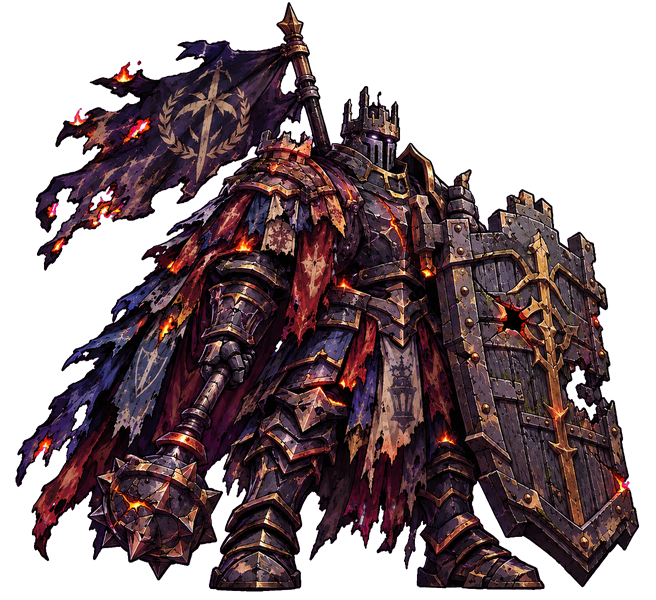
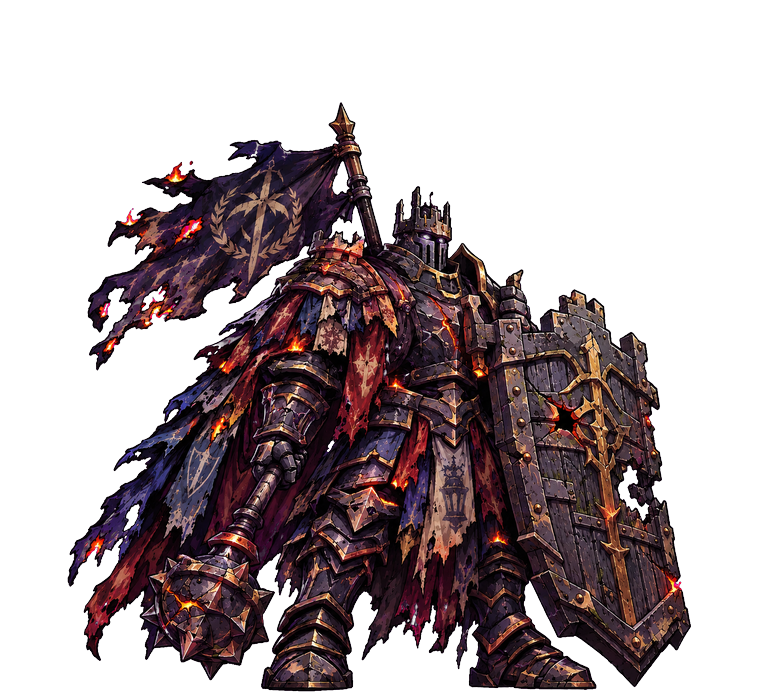
v0.6.5.0520: 6스테이지 보스 동작 그림 9컷 추가, 보스 캔버스 통일(미공개)
Claude-Session: https://claude.ai/code/session_01AwLthSKStJ6TZafJZN1U3z

diff --git a/index.html b/index.html
@@ -1362,7 +1362,7 @@ body.hcrun #bRev,body.hcrun #bRevBig{display:none!important}
     <div class="spVer" id="spVer"></div>
   </section>
   <section class="screen" id="sTitle">
-    <div class="ver" id="verT">v0.6.5.0519</div>
+    <div class="ver" id="verT">v0.6.5.0520</div>
     <button class="gearT" id="bSet" aria-label="메뉴"><svg viewBox="0 0 24 24" width="24" height="24" fill="none" stroke="currentColor" stroke-width="2.2" stroke-linecap="round" aria-hidden="true"><path d="M4 7h16M4 12h16M4 17h16"/></svg><i class="mnew" id="menuB" hidden>NEW</i></button>
     <button class="gearT" id="bFull" aria-label="전체화면" hidden></button>
     <div class="eyebrow">DARK GUARDIAN</div>

diff --git a/CLAUDE.md b/CLAUDE.md
@@ -1,5 +1,5 @@
 # 개발 규칙
 - 게임 밸런스/수치(확률, 데미지, 비용, 쿨타임, 드랍 등)를 바꿀 때마다 `patchnotes.txt` 맨 위에 해당 버전 항목을 추가하고 바뀐 수치를 간략히 적는다. 표기는 "변경: 120% → 90%", "상향: 3 → 5", "하향: …", "수정: …", "추가: …"처럼 쓴다("이전 → 이후:" 문구는 쓰지 않는다. 필요하면 "이전: A → 이후: B" 형태는 가능). (인게임 메뉴·설정·시작화면 버전 글자에서 이 파일을 보여줌)
-- 버전은 `0.6.5.NNNN` (빌드 번호 = 커밋 수 − 70, 0.4.0.0124 다음부터 0.4.1.0125 → 0.4.2.0128 → 0.4.2.0129 → 0.4.2.0130 → 0.4.2.0131 → 0.4.2.0132 → 0.4.2.0133 → 0.4.2.0134 → 0.4.2.0135 → 0.4.2.0136 → 0.4.2.0137 → 0.4.2.0138 → 0.4.2.0139 → 0.4.2.0140 → 0.4.2.0141 → 0.4.2.0142 → 0.4.2.0143 → 0.4.2.0144 → 0.4.2.0145 → 0.4.2.0146 → 0.4.2.0147 → 0.4.2.0148 → 0.4.2.0149 → 0.4.3.0150 → 0.4.3.0151 → 0.4.3.0152 → 0.4.3.0153 → 0.4.3.0154 → 0.4.3.0155 → 0.4.3.0156 → 0.4.3.0157 → 0.4.3.0158 → 0.4.3.0159 → 0.4.3.0160 → 0.4.3.0161 → 0.4.3.0162 → 0.4.3.0163 → 0.4.3.0164 → 0.4.3.0165 → 0.4.3.0166 → 0.4.3.0167 → 0.4.4.0168 → 0.4.4.0169 → 0.4.4.0170 → 0.4.4.0171 → 0.4.4.0172 → 0.4.4.0173 → 0.4.5.0174 → 0.4.5.0175 → 0.4.5.0176 → 0.4.5.0177 → 0.4.5.0178 → 0.4.5.0179 → 0.4.5.0180 → 0.4.6.0181 → 0.4.6.0182 → 0.4.6.0183 → 0.4.6.0184 → 0.4.6.0185 → 0.4.6.0186 → 0.4.6.0187 → 0.4.6.0188 → 0.4.6.0189 → 0.4.6.0190 → 0.4.6.0191 → 0.4.6.0192 → 0.4.6.0193 → 0.4.6.0194 → 0.4.6.0195 → 0.4.6.0196 → 0.4.7.0197 → 0.4.7.0198 → 0.4.7.0199 → 0.4.7.0200 → 0.4.7.0201 → 0.4.7.0202 → 0.4.7.0203 → 0.4.7.0204 → 0.4.7.0205 → 0.4.7.0206 → 0.4.7.0207 → 0.4.7.0208 → 0.5.0.0209 → 0.5.0.0210 → 0.5.0.0211 → 0.5.0.0212 → 0.5.0.0213 → 0.5.0.0214 → 0.5.0.0215 → 0.5.0.0216 → 0.5.0.0217 → 0.5.0.0218 → 0.5.0.0219 → 0.5.0.0220 → 0.5.0.0221 → 0.5.0.0222 → 0.5.0.0223 → 0.5.0.0224 → 0.5.0.0225 → 0.5.0.0226 → 0.5.0.0227 → 0.5.0.0228 → 0.5.0.0229 → 0.5.0.0230 → 0.5.0.0231 → 0.5.0.0232 → 0.5.0.0233 → 0.5.0.0234 → 0.5.0.0235 → 0.5.0.0236 → 0.5.0.0237 → 0.5.0.0238 → 0.5.0.0239 → 0.5.0.0240 → 0.5.0.0241 → 0.6.0.0241 → 0.6.0.0242 → 0.6.0.0243 → 0.6.0.0244 → 0.6.0.0245 → 0.6.0.0246 → 0.6.0.0247 → 0.6.0.0248 → 0.6.0.0249 → 0.6.0.0250 → 0.6.0.0251 → 0.6.0.0252 → 0.6.0.0253 → 0.6.0.0254 → 0.6.0.0255 → 0.6.0.0256 → 0.6.0.0257 → 0.6.0.0258 → 0.6.0.0259 → 0.6.0.0260 → 0.6.0.0261 → 0.6.0.0262 → 0.6.0.0263 → 0.6.0.0264 → 0.6.0.0265 → 0.6.0.0266 → 0.6.0.0267 → 0.6.0.0268 → 0.6.0.0269 → 0.6.0.0270 → 0.6.0.0271 → 0.6.0.0272 → 0.6.0.0273 → 0.6.0.0274 → 0.6.0.0275 → 0.6.0.0276 → 0.6.0.0277 → 0.6.0.0278 → 0.6.0.0279 → 0.6.0.0280 → 0.6.0.0281 → 0.6.0.0282 → 0.6.0.0283 → 0.6.0.0284 → 0.6.0.0285 → 0.6.0.0286 → 0.6.0.0287 → 0.6.0.0288 → 0.6.0.0289 → 0.6.0.0290 → 0.6.0.0291 → 0.6.0.0292 → 0.6.0.0293 → 0.6.0.0294 → 0.6.0.0295 → 0.6.0.0296 → 0.6.0.0297 → 0.6.0.0298 → 0.6.0.0299 → 0.6.0.0300 → 0.6.0.0301 → 0.6.0.0302 → 0.6.0.0303 → 0.6.0.0304 → 0.6.0.0305 → 0.6.0.0306 → 0.6.0.0307 → 0.6.0.0308 → 0.6.0.0309 → 0.6.0.0310 → 0.6.0.0311 → 0.6.0.0312 → 0.6.0.0313 → 0.6.0.0314 → 0.6.0.0315 → 0.6.0.0316 → 0.6.0.0317 → 0.6.0.0318 → 0.6.0.0319 → 0.6.0.0320 → 0.6.0.0321 → 0.6.0.0322 → 0.6.0.0323 → 0.6.0.0324 → 0.6.0.0325 → 0.6.0.0326 → 0.6.0.0327 → 0.6.0.0328 → 0.6.0.0329 → 0.6.0.0330 → 0.6.0.0331 → 0.6.0.0332 → 0.6.0.0333 → 0.6.0.0334 → 0.6.0.0335 → 0.6.0.0336 → 0.6.0.0337 → 0.6.0.0338 → 0.6.0.0339 → 0.6.0.0340 → 0.6.1.0341 → 0.6.1.0342 → 0.6.1.0343 → 0.6.1.0344 → 0.6.1.0345 → 0.6.1.0346 → 0.6.1.0347 → 0.6.1.0348 → 0.6.1.0349 → 0.6.1.0350 → 0.6.1.0351 → 0.6.1.0352 → 0.6.1.0353 → 0.6.1.0354 → 0.6.1.0355 → 0.6.1.0356 → 0.6.1.0357 → 0.6.1.0358 → 0.6.1.0359 → 0.6.1.0360 → 0.6.1.0361 → 0.6.1.0362 → 0.6.1.0363 → 0.6.1.0364 → 0.6.1.0365 → 0.6.1.0366 → 0.6.1.0367 → 0.6.1.0368 → 0.6.1.0369 → 0.6.1.0370 → 0.6.1.0371 → 0.6.1.0372 → 0.6.1.0373 → 0.6.1.0374 → 0.6.1.0375 → 0.6.1.0376 → 0.6.1.0377 → 0.6.1.0378 → 0.6.1.0379 → 0.6.1.0380 → 0.6.1.0381 → 0.6.1.0382 → 0.6.1.0383 → 0.6.1.0384 → 0.6.1.0385 → 0.6.1.0386 → 0.6.1.0387 → 0.6.1.0388 → 0.6.1.0389 → 0.6.2.0390 → 0.6.2.0391 → 0.6.2.0392 → 0.6.2.0393 → 0.6.2.0394 → 0.6.2.0395 → 0.6.2.0396 → 0.6.2.0397 → 0.6.2.0398 → 0.6.2.0399 → 0.6.2.0400 → 0.6.2.0401 → 0.6.2.0402 → 0.6.2.0403 → 0.6.2.0404 → 0.6.2.0405 → 0.6.2.0406 → 0.6.2.0407 → 0.6.2.0408 → 0.6.2.0409 → 0.6.2.0410 → 0.6.2.0411 → 0.6.2.0412 → 0.6.2.0413 → 0.6.2.0414 → 0.6.2.0415 → 0.6.2.0416 → 0.6.2.0417 → 0.6.2.0418 → 0.6.3.0419 → 0.6.3.0420 → 0.6.3.0421 → 0.6.3.0422 → 0.6.3.0423 → 0.6.3.0424 → 0.6.3.0425 → 0.6.3.0426 → 0.6.3.0427 → 0.6.3.0428 → 0.6.3.0429 → 0.6.3.0430 → 0.6.3.0431 → 0.6.3.0432 → 0.6.3.0433 → 0.6.3.0434 → 0.6.3.0435 → 0.6.3.0436 → 0.6.3.0437 → 0.6.3.0438 → 0.6.3.0439 → 0.6.3.0440 → 0.6.3.0441 → 0.6.3.0442 → 0.6.3.0443 → 0.6.3.0444 → 0.6.3.0445 → 0.6.3.0446 → 0.6.3.0447 → 0.6.3.0448 → 0.6.3.0449 → 0.6.3.0450 → 0.6.3.0451 → 0.6.3.0452 → 0.6.3.0453 → 0.6.3.0454 → 0.6.3.0455 → 0.6.3.0456 → 0.6.3.0457 → 0.6.3.0458 → 0.6.3.0459 → 0.6.4.0460 → 0.6.4.0461 → 0.6.4.0462 → 0.6.4.0463 → 0.6.4.0464 → 0.6.4.0465 → 0.6.4.0466 → 0.6.4.0467 → 0.6.4.0468 → 0.6.4.0469 → 0.6.4.0470 → 0.6.4.0471 → 0.6.4.0472 → 0.6.4.0473 → 0.6.4.0474 → 0.6.4.0475 → 0.6.4.0476 → 0.6.4.0477 → 0.6.4.0478 → 0.6.4.0479 → 0.6.4.0480 → 0.6.4.0481 → 0.6.4.0482 → 0.6.4.0483 → 0.6.4.0484 → 0.6.4.0485 → 0.6.4.0486 → 0.6.4.0487 → 0.6.4.0488 → 0.6.4.0489 → 0.6.4.0490 → 0.6.4.0491 → 0.6.4.0492 → 0.6.4.0493 → 0.6.4.0494 → 0.6.4.0495 → 0.6.4.0496 → 0.6.4.0497 → 0.6.4.0498 → 0.6.4.0499 → 0.6.4.0500 → 0.6.4.0501 → 0.6.4.0502 → 0.6.4.0503 → 0.6.4.0504 → 0.6.4.0505 → 0.6.5.0506 → 0.6.5.0507 → 0.6.5.0508 → 0.6.5.0509 → 0.6.5.0510 → 0.6.5.0511 → 0.6.5.0512 → 0.6.5.0513 → 0.6.5.0514 → 0.6.5.0515 → 0.6.5.0516 → 0.6.5.0517 → 0.6.5.0518 → 0.6.5.0519로 이어서 증가). 커밋 때 patchnotes.txt의 버전 번호도 맞춘다.
+- 버전은 `0.6.5.NNNN` (빌드 번호 = 커밋 수 − 70, 0.4.0.0124 다음부터 0.4.1.0125 → 0.4.2.0128 → 0.4.2.0129 → 0.4.2.0130 → 0.4.2.0131 → 0.4.2.0132 → 0.4.2.0133 → 0.4.2.0134 → 0.4.2.0135 → 0.4.2.0136 → 0.4.2.0137 → 0.4.2.0138 → 0.4.2.0139 → 0.4.2.0140 → 0.4.2.0141 → 0.4.2.0142 → 0.4.2.0143 → 0.4.2.0144 → 0.4.2.0145 → 0.4.2.0146 → 0.4.2.0147 → 0.4.2.0148 → 0.4.2.0149 → 0.4.3.0150 → 0.4.3.0151 → 0.4.3.0152 → 0.4.3.0153 → 0.4.3.0154 → 0.4.3.0155 → 0.4.3.0156 → 0.4.3.0157 → 0.4.3.0158 → 0.4.3.0159 → 0.4.3.0160 → 0.4.3.0161 → 0.4.3.0162 → 0.4.3.0163 → 0.4.3.0164 → 0.4.3.0165 → 0.4.3.0166 → 0.4.3.0167 → 0.4.4.0168 → 0.4.4.0169 → 0.4.4.0170 → 0.4.4.0171 → 0.4.4.0172 → 0.4.4.0173 → 0.4.5.0174 → 0.4.5.0175 → 0.4.5.0176 → 0.4.5.0177 → 0.4.5.0178 → 0.4.5.0179 → 0.4.5.0180 → 0.4.6.0181 → 0.4.6.0182 → 0.4.6.0183 → 0.4.6.0184 → 0.4.6.0185 → 0.4.6.0186 → 0.4.6.0187 → 0.4.6.0188 → 0.4.6.0189 → 0.4.6.0190 → 0.4.6.0191 → 0.4.6.0192 → 0.4.6.0193 → 0.4.6.0194 → 0.4.6.0195 → 0.4.6.0196 → 0.4.7.0197 → 0.4.7.0198 → 0.4.7.0199 → 0.4.7.0200 → 0.4.7.0201 → 0.4.7.0202 → 0.4.7.0203 → 0.4.7.0204 → 0.4.7.0205 → 0.4.7.0206 → 0.4.7.0207 → 0.4.7.0208 → 0.5.0.0209 → 0.5.0.0210 → 0.5.0.0211 → 0.5.0.0212 → 0.5.0.0213 → 0.5.0.0214 → 0.5.0.0215 → 0.5.0.0216 → 0.5.0.0217 → 0.5.0.0218 → 0.5.0.0219 → 0.5.0.0220 → 0.5.0.0221 → 0.5.0.0222 → 0.5.0.0223 → 0.5.0.0224 → 0.5.0.0225 → 0.5.0.0226 → 0.5.0.0227 → 0.5.0.0228 → 0.5.0.0229 → 0.5.0.0230 → 0.5.0.0231 → 0.5.0.0232 → 0.5.0.0233 → 0.5.0.0234 → 0.5.0.0235 → 0.5.0.0236 → 0.5.0.0237 → 0.5.0.0238 → 0.5.0.0239 → 0.5.0.0240 → 0.5.0.0241 → 0.6.0.0241 → 0.6.0.0242 → 0.6.0.0243 → 0.6.0.0244 → 0.6.0.0245 → 0.6.0.0246 → 0.6.0.0247 → 0.6.0.0248 → 0.6.0.0249 → 0.6.0.0250 → 0.6.0.0251 → 0.6.0.0252 → 0.6.0.0253 → 0.6.0.0254 → 0.6.0.0255 → 0.6.0.0256 → 0.6.0.0257 → 0.6.0.0258 → 0.6.0.0259 → 0.6.0.0260 → 0.6.0.0261 → 0.6.0.0262 → 0.6.0.0263 → 0.6.0.0264 → 0.6.0.0265 → 0.6.0.0266 → 0.6.0.0267 → 0.6.0.0268 → 0.6.0.0269 → 0.6.0.0270 → 0.6.0.0271 → 0.6.0.0272 → 0.6.0.0273 → 0.6.0.0274 → 0.6.0.0275 → 0.6.0.0276 → 0.6.0.0277 → 0.6.0.0278 → 0.6.0.0279 → 0.6.0.0280 → 0.6.0.0281 → 0.6.0.0282 → 0.6.0.0283 → 0.6.0.0284 → 0.6.0.0285 → 0.6.0.0286 → 0.6.0.0287 → 0.6.0.0288 → 0.6.0.0289 → 0.6.0.0290 → 0.6.0.0291 → 0.6.0.0292 → 0.6.0.0293 → 0.6.0.0294 → 0.6.0.0295 → 0.6.0.0296 → 0.6.0.0297 → 0.6.0.0298 → 0.6.0.0299 → 0.6.0.0300 → 0.6.0.0301 → 0.6.0.0302 → 0.6.0.0303 → 0.6.0.0304 → 0.6.0.0305 → 0.6.0.0306 → 0.6.0.0307 → 0.6.0.0308 → 0.6.0.0309 → 0.6.0.0310 → 0.6.0.0311 → 0.6.0.0312 → 0.6.0.0313 → 0.6.0.0314 → 0.6.0.0315 → 0.6.0.0316 → 0.6.0.0317 → 0.6.0.0318 → 0.6.0.0319 → 0.6.0.0320 → 0.6.0.0321 → 0.6.0.0322 → 0.6.0.0323 → 0.6.0.0324 → 0.6.0.0325 → 0.6.0.0326 → 0.6.0.0327 → 0.6.0.0328 → 0.6.0.0329 → 0.6.0.0330 → 0.6.0.0331 → 0.6.0.0332 → 0.6.0.0333 → 0.6.0.0334 → 0.6.0.0335 → 0.6.0.0336 → 0.6.0.0337 → 0.6.0.0338 → 0.6.0.0339 → 0.6.0.0340 → 0.6.1.0341 → 0.6.1.0342 → 0.6.1.0343 → 0.6.1.0344 → 0.6.1.0345 → 0.6.1.0346 → 0.6.1.0347 → 0.6.1.0348 → 0.6.1.0349 → 0.6.1.0350 → 0.6.1.0351 → 0.6.1.0352 → 0.6.1.0353 → 0.6.1.0354 → 0.6.1.0355 → 0.6.1.0356 → 0.6.1.0357 → 0.6.1.0358 → 0.6.1.0359 → 0.6.1.0360 → 0.6.1.0361 → 0.6.1.0362 → 0.6.1.0363 → 0.6.1.0364 → 0.6.1.0365 → 0.6.1.0366 → 0.6.1.0367 → 0.6.1.0368 → 0.6.1.0369 → 0.6.1.0370 → 0.6.1.0371 → 0.6.1.0372 → 0.6.1.0373 → 0.6.1.0374 → 0.6.1.0375 → 0.6.1.0376 → 0.6.1.0377 → 0.6.1.0378 → 0.6.1.0379 → 0.6.1.0380 → 0.6.1.0381 → 0.6.1.0382 → 0.6.1.0383 → 0.6.1.0384 → 0.6.1.0385 → 0.6.1.0386 → 0.6.1.0387 → 0.6.1.0388 → 0.6.1.0389 → 0.6.2.0390 → 0.6.2.0391 → 0.6.2.0392 → 0.6.2.0393 → 0.6.2.0394 → 0.6.2.0395 → 0.6.2.0396 → 0.6.2.0397 → 0.6.2.0398 → 0.6.2.0399 → 0.6.2.0400 → 0.6.2.0401 → 0.6.2.0402 → 0.6.2.0403 → 0.6.2.0404 → 0.6.2.0405 → 0.6.2.0406 → 0.6.2.0407 → 0.6.2.0408 → 0.6.2.0409 → 0.6.2.0410 → 0.6.2.0411 → 0.6.2.0412 → 0.6.2.0413 → 0.6.2.0414 → 0.6.2.0415 → 0.6.2.0416 → 0.6.2.0417 → 0.6.2.0418 → 0.6.3.0419 → 0.6.3.0420 → 0.6.3.0421 → 0.6.3.0422 → 0.6.3.0423 → 0.6.3.0424 → 0.6.3.0425 → 0.6.3.0426 → 0.6.3.0427 → 0.6.3.0428 → 0.6.3.0429 → 0.6.3.0430 → 0.6.3.0431 → 0.6.3.0432 → 0.6.3.0433 → 0.6.3.0434 → 0.6.3.0435 → 0.6.3.0436 → 0.6.3.0437 → 0.6.3.0438 → 0.6.3.0439 → 0.6.3.0440 → 0.6.3.0441 → 0.6.3.0442 → 0.6.3.0443 → 0.6.3.0444 → 0.6.3.0445 → 0.6.3.0446 → 0.6.3.0447 → 0.6.3.0448 → 0.6.3.0449 → 0.6.3.0450 → 0.6.3.0451 → 0.6.3.0452 → 0.6.3.0453 → 0.6.3.0454 → 0.6.3.0455 → 0.6.3.0456 → 0.6.3.0457 → 0.6.3.0458 → 0.6.3.0459 → 0.6.4.0460 → 0.6.4.0461 → 0.6.4.0462 → 0.6.4.0463 → 0.6.4.0464 → 0.6.4.0465 → 0.6.4.0466 → 0.6.4.0467 → 0.6.4.0468 → 0.6.4.0469 → 0.6.4.0470 → 0.6.4.0471 → 0.6.4.0472 → 0.6.4.0473 → 0.6.4.0474 → 0.6.4.0475 → 0.6.4.0476 → 0.6.4.0477 → 0.6.4.0478 → 0.6.4.0479 → 0.6.4.0480 → 0.6.4.0481 → 0.6.4.0482 → 0.6.4.0483 → 0.6.4.0484 → 0.6.4.0485 → 0.6.4.0486 → 0.6.4.0487 → 0.6.4.0488 → 0.6.4.0489 → 0.6.4.0490 → 0.6.4.0491 → 0.6.4.0492 → 0.6.4.0493 → 0.6.4.0494 → 0.6.4.0495 → 0.6.4.0496 → 0.6.4.0497 → 0.6.4.0498 → 0.6.4.0499 → 0.6.4.0500 → 0.6.4.0501 → 0.6.4.0502 → 0.6.4.0503 → 0.6.4.0504 → 0.6.4.0505 → 0.6.5.0506 → 0.6.5.0507 → 0.6.5.0508 → 0.6.5.0509 → 0.6.5.0510 → 0.6.5.0511 → 0.6.5.0512 → 0.6.5.0513 → 0.6.5.0514 → 0.6.5.0515 → 0.6.5.0516 → 0.6.5.0517 → 0.6.5.0518 → 0.6.5.0519 → 0.6.5.0520로 이어서 증가). 커밋 때 patchnotes.txt의 버전 번호도 맞춘다.
 - 공지사항은 `notice.txt` 맨 위에 새 항목을 추가한다(구분선 `==============================` 한 줄 + 제목 줄 + ` - 내용` 줄들). 화면에는 최근 3건만 보인다. 사용자가 공지 추가를 요청할 때만 쓴다.
 - 관리자 관련 추가·수정, 치트키, 미공개(요청·스테이지·캐릭터 등) 내용은 `patchnotes.txt`가 아니라 `adminnotes.txt`(관리자 노트, 연구실에서 열람) 맨 위에 같은 머리글 형식(`==============================` + `v버전  (월/일)  제목` + `==============================` + `■ 분류` + `  - 추가:/변경:/수정: …`)으로 기록한다. 한 번의 요청에 일반 패치 내용과 관리자 내용이 섞여 있으면 나눠서 각각 기록하고, 패치노트에는 큰 관리자 기능을 새로 추가했을 때만 `■ 기타 - 추가: 연구실 기능이 추가되었습니다.`처럼 한 줄로 적고, 관리자 관련 수정·보완은 패치노트에 적지 않고 adminnotes.txt에만 기록한다. 관리자 비밀번호는 노트·패치노트·커밋 메시지 어디에도 쓰지 않고 `****`로 표시한다.
